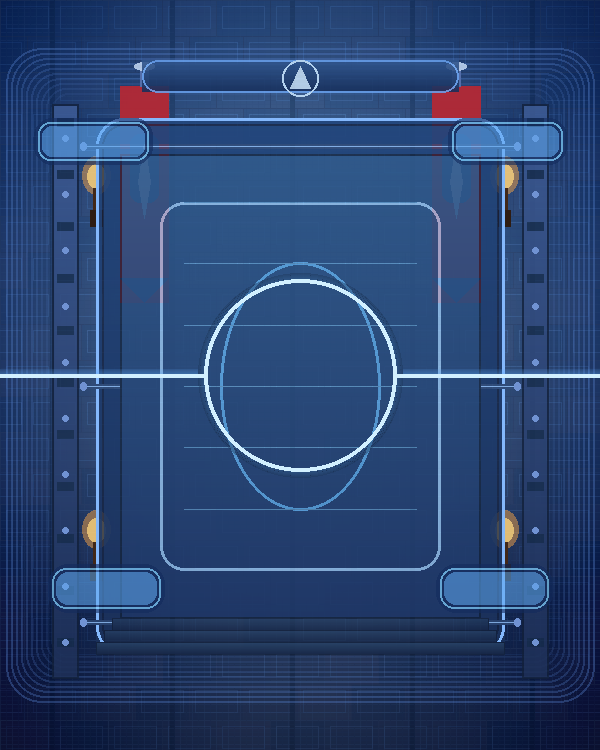
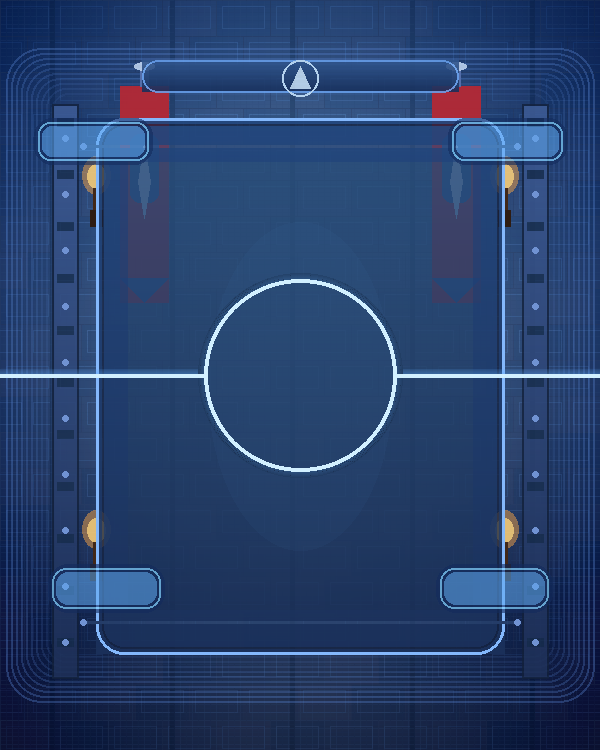
Auto-save #42: Python 코드 작업 - 2025-10-04 02:22:00

diff --git a/generate_stage7_field.py b/generate_stage7_field.py
@@ -263,37 +263,23 @@ def _draw_playfield_panel(image: Image.Image) -> None:
         fill=(212, 236, 255, 200),
     )
 
-    # 철제 보강 브릿지
-    brace_y_positions = [top + 28, (top + bottom) // 2, bottom - 32]
+    # 철제 보강 브릿지 (최소화된 가이드)
+    brace_y_positions = [top + 28, bottom - 32]
     for y in brace_y_positions:
-        draw.rectangle((left - 14, y - 2, right + 14, y + 2), fill=(46, 74, 120, 190))
-        draw.line((left - 14, y, right + 14, y), fill=(140, 186, 242, 220), width=1)
-        draw.ellipse((left - 16, y - 4, left - 10, y + 4), fill=IRON_RIVET_COLOR)
-        draw.ellipse((right + 10, y - 4, right + 16, y + 4), fill=IRON_RIVET_COLOR)
+        draw.rectangle((left - 14, y - 1, right + 14, y + 1), fill=(46, 74, 120, 160))
+        draw.ellipse((left - 16, y - 3, left - 10, y + 3), fill=IRON_RIVET_COLOR)
+        draw.ellipse((right + 10, y - 3, right + 16, y + 3), fill=IRON_RIVET_COLOR)
 
-    # 중앙 바닥 슬랩과 문양
-    floor_rect = (left + 24, top + 36, right - 24, bottom - 36)
-    _draw_gradient_rect(draw, floor_rect, (46, 88, 138), (30, 54, 102), alpha=230)
-    draw.rectangle(floor_rect, outline=(16, 32, 56, 180), width=2)
-
-    rune_rect = (floor_rect[0] + 40, floor_rect[1] + 48, floor_rect[2] - 40, floor_rect[3] - 48)
-    draw.rounded_rectangle(rune_rect, radius=24, outline=(164, 212, 255, 180), width=3)
-    draw.ellipse(
-        (rune_rect[0] + 60, rune_rect[1] + 60, rune_rect[2] - 60, rune_rect[3] - 60),
-        outline=(96, 186, 255, 160),
-        width=3,
+    # 중앙 바닥을 미니멀한 하이라이트로 유지
+    floor_rect = (left + 32, top + 44, right - 32, bottom - 44)
+    _draw_gradient_rect(draw, floor_rect, (38, 74, 118), (26, 48, 88), alpha=210)
+    highlight = Image.new("RGBA", (WIDTH, HEIGHT), (0, 0, 0, 0))
+    hdraw = ImageDraw.Draw(highlight)
+    hdraw.ellipse(
+        (floor_rect[0] + 80, floor_rect[1] + 60, floor_rect[2] - 80, floor_rect[3] - 60),
+        fill=(96, 166, 230, 65),
     )
-    for angle_section in range(0, 360, 60):
-        line_y = int(round(rune_rect[1] + (rune_rect[3] - rune_rect[1]) * angle_section / 360))
-        draw.line((rune_rect[0] + 24, line_y, rune_rect[2] - 24, line_y), fill=(116, 198, 255, 110), width=1)
-
-    # 외곽 계단형 돌판
-    step_height = 12
-    for i in range(3):
-        inset = i * 8
-        step_rect = (left + inset, bottom - step_height * (i + 1), right - inset, bottom - step_height * i)
-        _draw_gradient_rect(draw, step_rect, (40, 68, 104), (24, 40, 72), alpha=220 - i * 30)
-        draw.rectangle(step_rect, outline=(18, 32, 56, 180), width=1)
+    image.alpha_composite(highlight)
 
     image.alpha_composite(panel)
 
